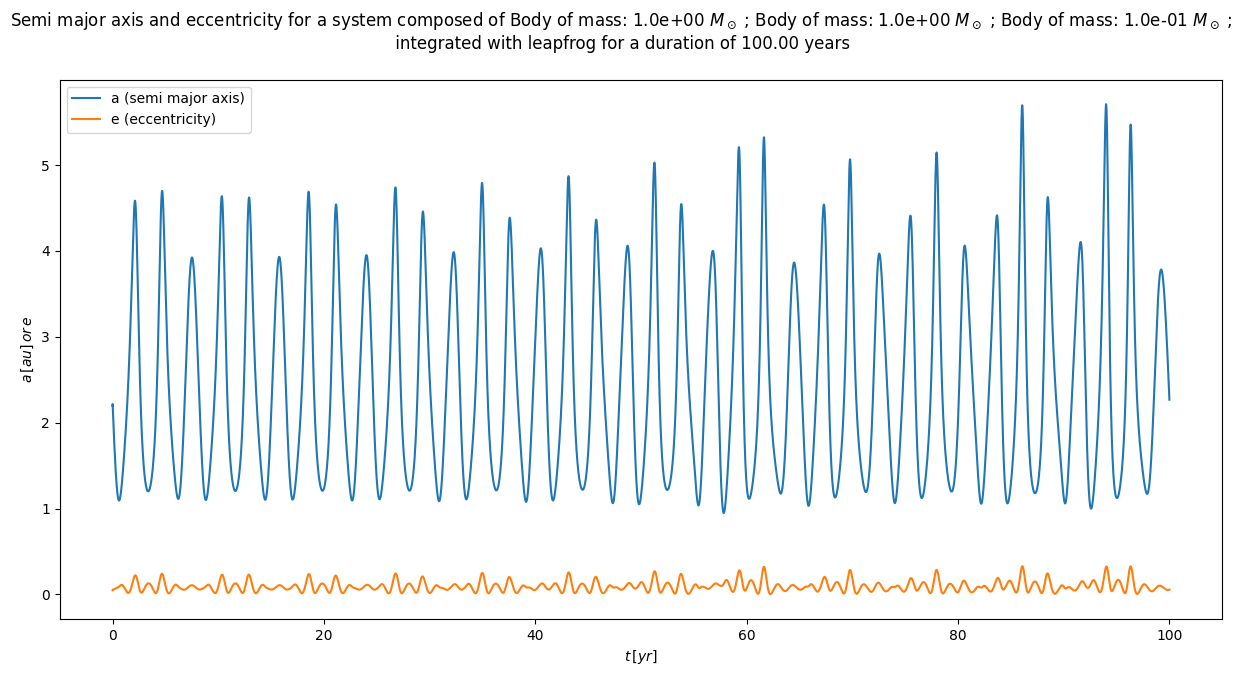
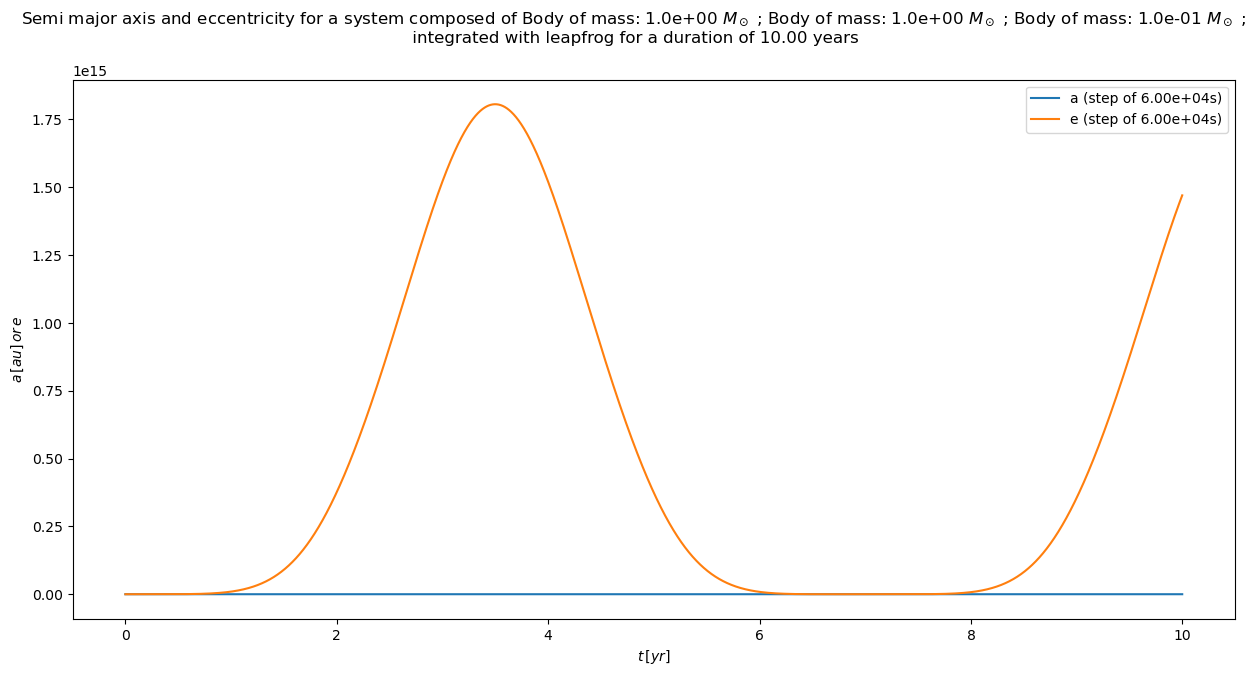
COMBIN update

diff --git a/lib/objects.py b/lib/objects.py
@@ -14,6 +14,8 @@ class Body:
         self.m = mass
         self.q = position
         self.v = velocity
+        self.qb = position
+        self.vb = velocity
         self.a = np.zeros(3,dtype=np.longdouble)
         self.ap = np.zeros(3,dtype=np.longdouble)
         self.j = np.zeros(3,dtype=np.longdouble)
@@ -30,6 +32,10 @@ class Body:
     @property
     def p(self):
         return self.v*self.m
+
+    @property
+    def pb(self):
+        return self.vb*self.m
 
 class System(Body):
 
@@ -49,25 +55,25 @@ class System(Body):
     def __str__(self):  # Called upon "str(system)"
         return str([str(body) for body in self.bodylist])
 
-    @property
+
     def get_masses(self): #return the masses of each object
         return np.array([body.m for body in self.bodylist],dtype=np.longdouble)
-    
-    @property
+
+
     def get_positions(self): #return the positions of the bodies
         xdata = np.array([body.q[0] for body in self.bodylist],dtype=np.longdouble)
         ydata = np.array([body.q[1] for body in self.bodylist],dtype=np.longdouble)
         zdata = np.array([body.q[2] for body in self.bodylist],dtype=np.longdouble)
         return xdata, ydata, zdata
-    
-    @property
+
+
     def get_velocities(self): #return the positions of the bodies
         vxdata = np.array([body.v[0] for body in self.bodylist],dtype=np.longdouble)
         vydata = np.array([body.v[1] for body in self.bodylist],dtype=np.longdouble)
         vzdata = np.array([body.v[2] for body in self.bodylist],dtype=np.longdouble)
         return vxdata, vydata, vzdata
-    
-    @property
+
+
     def get_momenta(self): #return the momenta of the bodies
         pxdata = np.array([body.p[0] for body in self.bodylist],dtype=np.longdouble)
         pydata = np.array([body.p[1] for body in self.bodylist],dtype=np.longdouble)
@@ -106,9 +112,40 @@ class System(Body):
         return coord
 
     def COMShift(self): #Shift coordinates of bodies in system to COM frame and set COM at rest
+        COM = self.COM
+        COMV = self.COMV
         for body in self.bodylist:
-            body.q = body.q - self.COM
-            body.v = body.v - self.COMV
+            body.q = body.q - COM
+            body.v = body.v - COMV
+
+    def COMShiftBin(self): #Shift coordinates of inner binary system to COM frame and set COM at rest
+        COM = self.COM
+        COMV = self.COMV
+        for body in self.bodylist:
+            body.qb = body.qb - COM
+            body.vb = body.vb - COMV
+
+    @property
+    def LBIN(self): #return angular momentum of inner binary
+        self.COMShiftBin()
+        L = np.zeros(3,dtype=np.longdouble)
+        for body in self.bodylist:
+            L = L + np.cross(body.qb,body.pb)
+        return L
+
+    @property
+    def EBIN(self): #return total energy of inner binary
+        self.COMShiftBin()
+        T = 0
+        W = 0
+        for body in self.bodylist:
+            T = T + 1./2.*body.m*np.linalg.norm(body.vb)**2
+            for otherbody in self.bodylist:
+                if body != otherbody:
+                    rij = np.linalg.norm(body.qb-otherbody.qb)
+                    W = W - Ga*body.m*otherbody.m/rij
+        E = T + W
+        return E
 
     @property
     def LCOM(self): #return angular momentum of the center of mass
@@ -116,6 +153,9 @@ class System(Body):
         dr = self.bodylist[0].m/self.mu*self.bodylist[0].q
         dv = self.bodylist[0].m/self.mu*self.bodylist[0].v
         LCOM = self.mu*np.cross(dr,dv)
+
+        LCOM = self.L
+
         return LCOM
 
     @property
@@ -123,6 +163,9 @@ class System(Body):
         dr = self.bodylist[0].m/self.mu*self.bodylist[0].q
         dv = self.bodylist[0].m/self.mu*self.bodylist[0].v
         ECOM = self.mu/2.*np.linalg.norm(dv)**2 - Ga*self.M*self.mu/np.linalg.norm(dr)
+
+        ECOM = self.E
+
         return ECOM
 
     @property
@@ -148,7 +191,7 @@ class System(Body):
     @property
     def ecc(self): #exentricity of two body sub system
         if len(self.bodylist) == 2 :
-            ecc = (2.*self.ECOM*(np.linalg.norm(self.LCOM)**2))/((Ga**2)*(self.M**2)*(self.mu**3)) + 1.
+            ecc = (2.*self.EBIN*(np.linalg.norm(self.LBIN)**2))/((Ga**2)*(self.M**2)*(self.mu**3)) + 1.
         else :
             ecc = np.nan
         return ecc
@@ -156,7 +199,7 @@ class System(Body):
     @property
     def sma(self): #semi major axis of two body sub system
         if len(self.bodylist) == 2 :
-            sma = -Ga*self.M*self.mu/(2.*self.ECOM)
+            sma = -Ga*self.M*self.mu/(2.*self.EBIN)
         else :
             sma = np.nan
         return sma

diff --git a/main.py b/main.py
@@ -14,7 +14,7 @@ def main():
     m = np.array([1., 1., 1e-1],dtype=np.longdouble)*Ms/Ms  # Masses in Solar mass
     a = np.array([1., 1., 5.],dtype=np.longdouble)*au/au   # Semi-major axis in astronomical units
     e = np.array([0., 0., 0.],dtype=np.longdouble)   # Eccentricity
-    psi = np.array([0., 0., 0.],dtype=np.longdouble)*np.pi/180.    # Inclination of the orbital plane in degrees
+    psi = np.array([0., 0., 45.],dtype=np.longdouble)*np.pi/180.    # Inclination of the orbital plane in degrees
 
     x1 = np.array([0., -1., 0.],dtype=np.longdouble)*a[0]*(1.+e[0])
     x2 = np.array([0., 1., 0.],dtype=np.longdouble)*a[1]*(1.+e[1])
@@ -27,16 +27,16 @@ def main():
     v = np.array([v1, v2, v3],dtype=np.longdouble)
 
     #integration parameters
-    duration, step = 100*yr, np.array([60.],dtype=np.longdouble) #integration time and step in seconds
+    duration, step = 10*yr, np.array([60000.],dtype=np.longdouble) #integration time and step in seconds
     step = np.sort(step)[::-1]
     integrator = "leapfrog"
     n_bodies = 3
-    display = False
+    display = True
     gif = False
     savename = "{0:d}bodies_{1:s}".format(n_bodies, integrator)
 
     #simulation start
-    E, L = [], []
+    E, L, ecc, sma = [], [], [], []
     for i,step0 in enumerate(step):
         bodylist = []
         for j in range(n_bodies):
@@ -47,11 +47,13 @@ def main():
         if i != 0:
             display = False
         if integrator.lower() in ['leapfrog', 'frogleap', 'frog']:
-            E0, L0, sma, ecc = leapfrog(dyn_syst, bin_syst, duration, step0, recover_param=True, display=display, savename=savename, gif=gif)
+            E0, L0, sma0, ecc0 = leapfrog(dyn_syst, bin_syst, duration, step0, recover_param=True, display=display, savename=savename, gif=gif)
         elif integrator.lower() in ['hermite','herm']:
-            E0, L0, sma, ecc = hermite(dyn_syst, bin_syst, duration, step0, recover_param=True, display=display, savename=savename, gif=gif)
+            E0, L0, sma0, ecc0 = hermite(dyn_syst, bin_syst, duration, step0, recover_param=True, display=display, savename=savename, gif=gif)
         E.append(E0)
         L.append(L0)
+        ecc.append(ecc0)
+        sma.append(sma0)
 
     parameters = [duration, step, dyn_syst, integrator]
     display_parameters(E, L, sma, ecc, parameters=parameters, savename=savename)

diff --git a/lib/plots.py b/lib/plots.py
@@ -74,7 +74,7 @@ class DynamicUpdate():
             self.ax.set_zlabel('AU')
 
     def on_running(self, dyn_syst, step=None, label=None):
-        xdata, ydata, zdata = dyn_syst.get_positions
+        xdata, ydata, zdata = dyn_syst.get_positions()
         values = np.sqrt(np.sum((np.array((xdata,ydata,zdata))**2).T,axis=1))
         self.min_x, self.max_x = -np.max([np.abs(values).max(),self.max_x]), np.max([np.abs(values).max(),self.max_x])
         self.set_lims()
